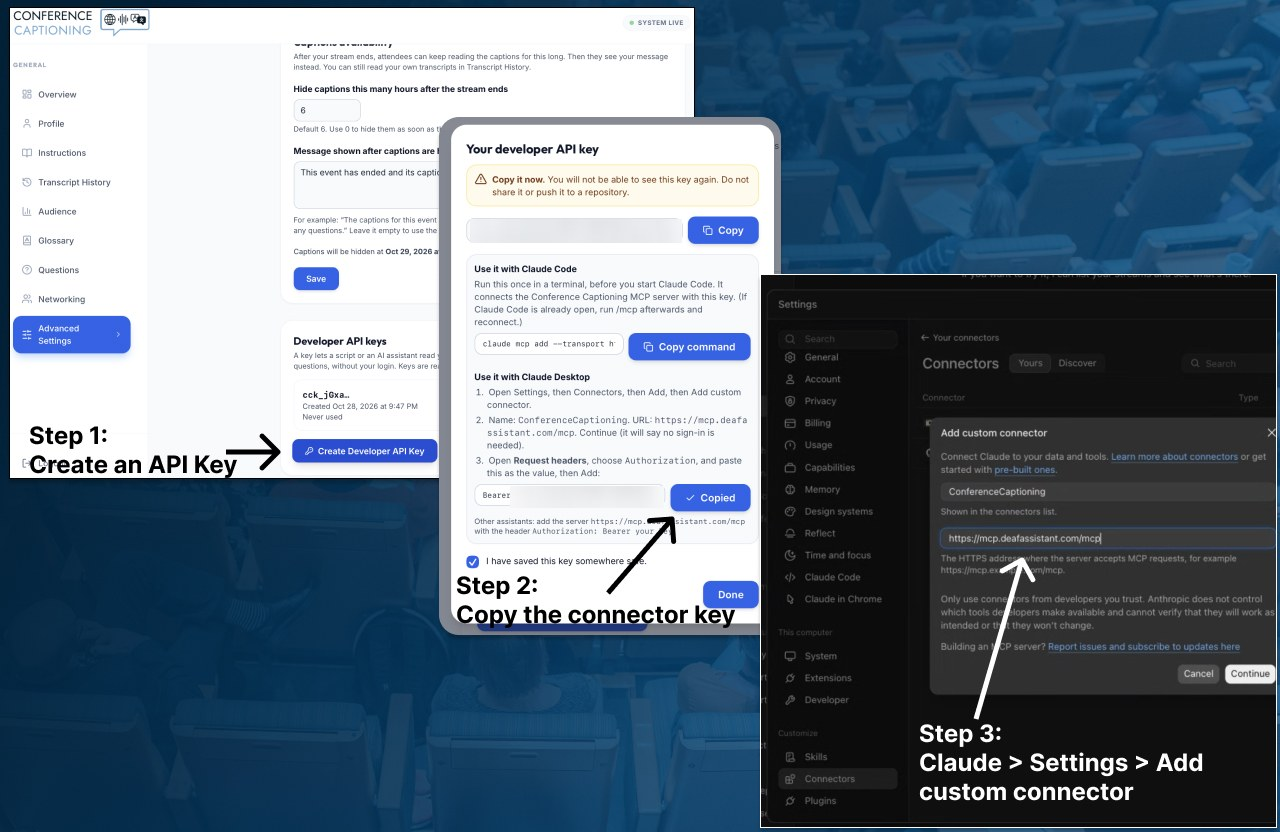
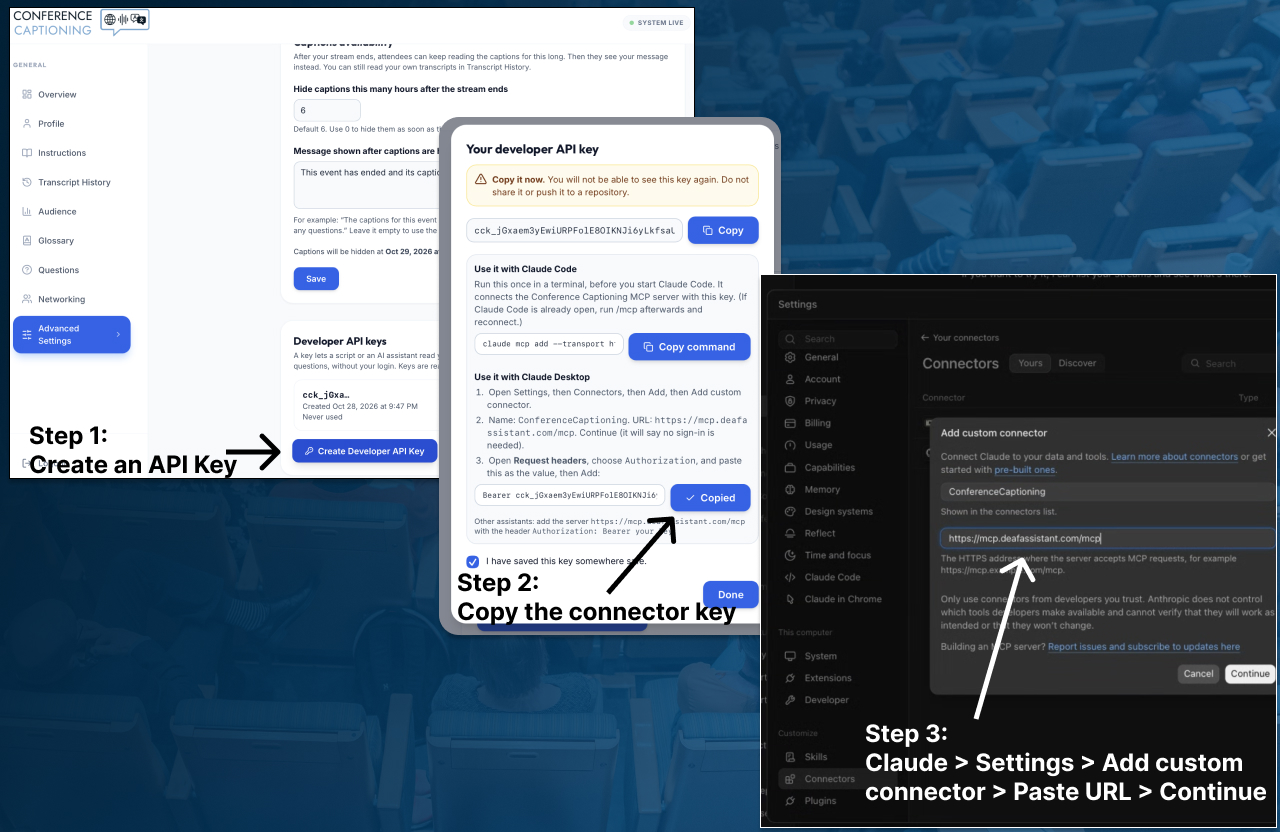
Update to blog

diff --git a/blog/ask-your-ai-assistant-about-your-event-mcp-server/index.html b/blog/ask-your-ai-assistant-about-your-event-mcp-server/index.html
@@ -391,7 +391,7 @@
           </ol>
           <figure class="my-6">
             <img src="steps-1-3-create-key-and-add-connector.jpg" alt="Three screenshots: the portal Advanced Settings page with the Create Developer API Key button, the key dialog with the copy button for the Claude connector value, and Claude Desktop's Add custom connector window with the server address filled in" />
-            <figcaption class="text-sm text-slate-500 mt-2">Steps 1 to 3 in the pictures: create the key, copy the connector value, then open Add custom connector in Claude Desktop. (The key is blurred.)</figcaption>
+            <figcaption class="text-sm text-slate-500 mt-2">Steps 1 to 3 in the pictures: create the key, copy the connector value, then open Add custom connector in Claude Desktop</figcaption>
           </figure>
           <h3>Step 2: Add the connector in your assistant</h3>
           <p><strong>Claude Desktop</strong> (tested):</p>
@@ -403,7 +403,7 @@
           </ol>
           <figure class="my-6">
             <img src="steps-4-6-authenticate-and-ask.jpg" alt="Three screenshots: Claude Desktop's Authentication section with the authorization request header, the connector's list of read-only tools, and a new chat asking what the connector can do" />
-            <figcaption class="text-sm text-slate-500 mt-2">Steps 4 to 6 in the pictures: paste the value into the authorization header, check the tool list, then ask a question in a new chat. (The answer to the second question is hidden.)</figcaption>
+            <figcaption class="text-sm text-slate-500 mt-2">Steps 4 to 6 in the pictures: paste the value into the authorization header, check the tool list, then ask a question in a new chat</figcaption>
           </figure>
           <p><strong>Claude Code:</strong> run this once in a terminal, before you start Claude Code (if it is already open, run <em>/mcp</em> afterwards and reconnect):</p>
           <pre><code>claude mcp add --transport http confcap https://mcp.deafassistant.com/mcp --header "Authorization: Bearer cck_..."</code></pre>
